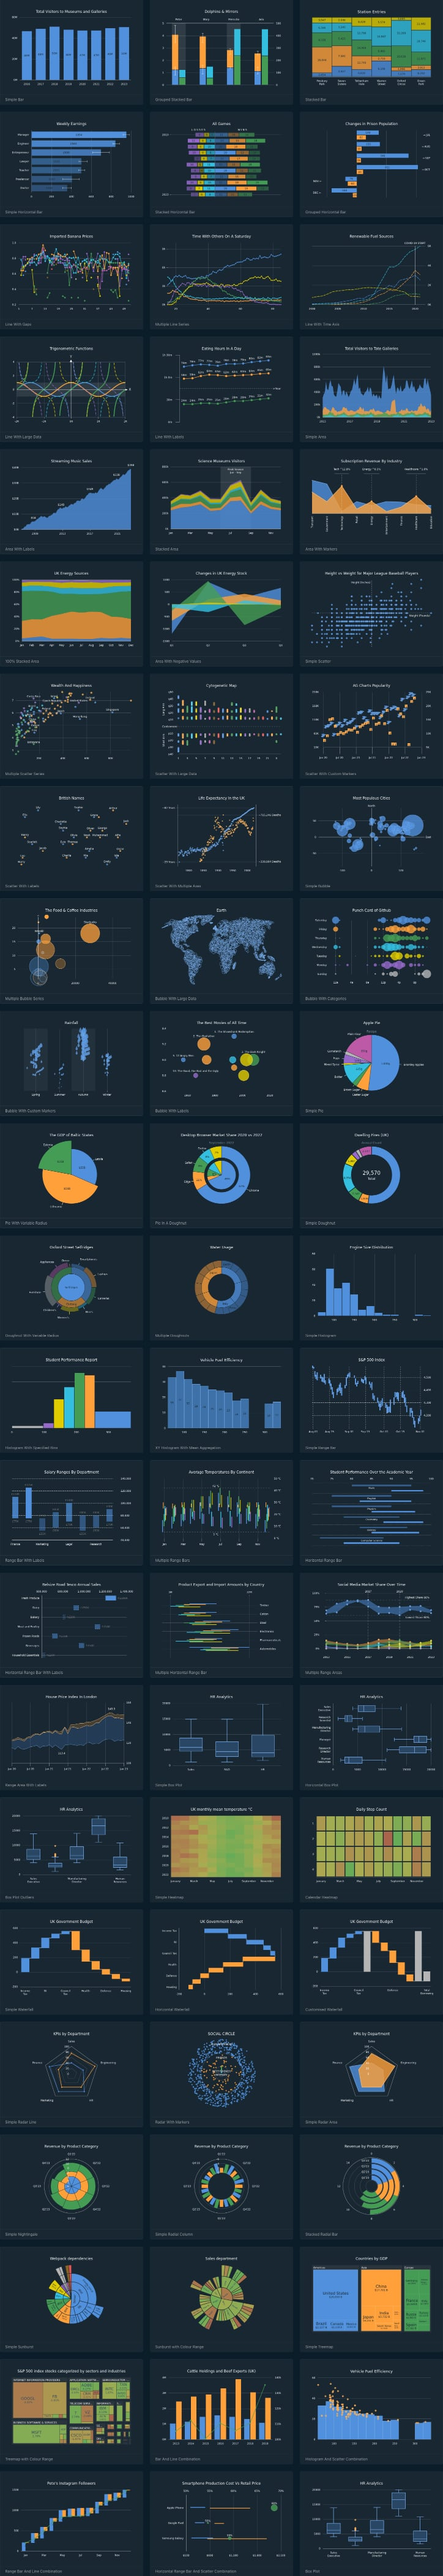
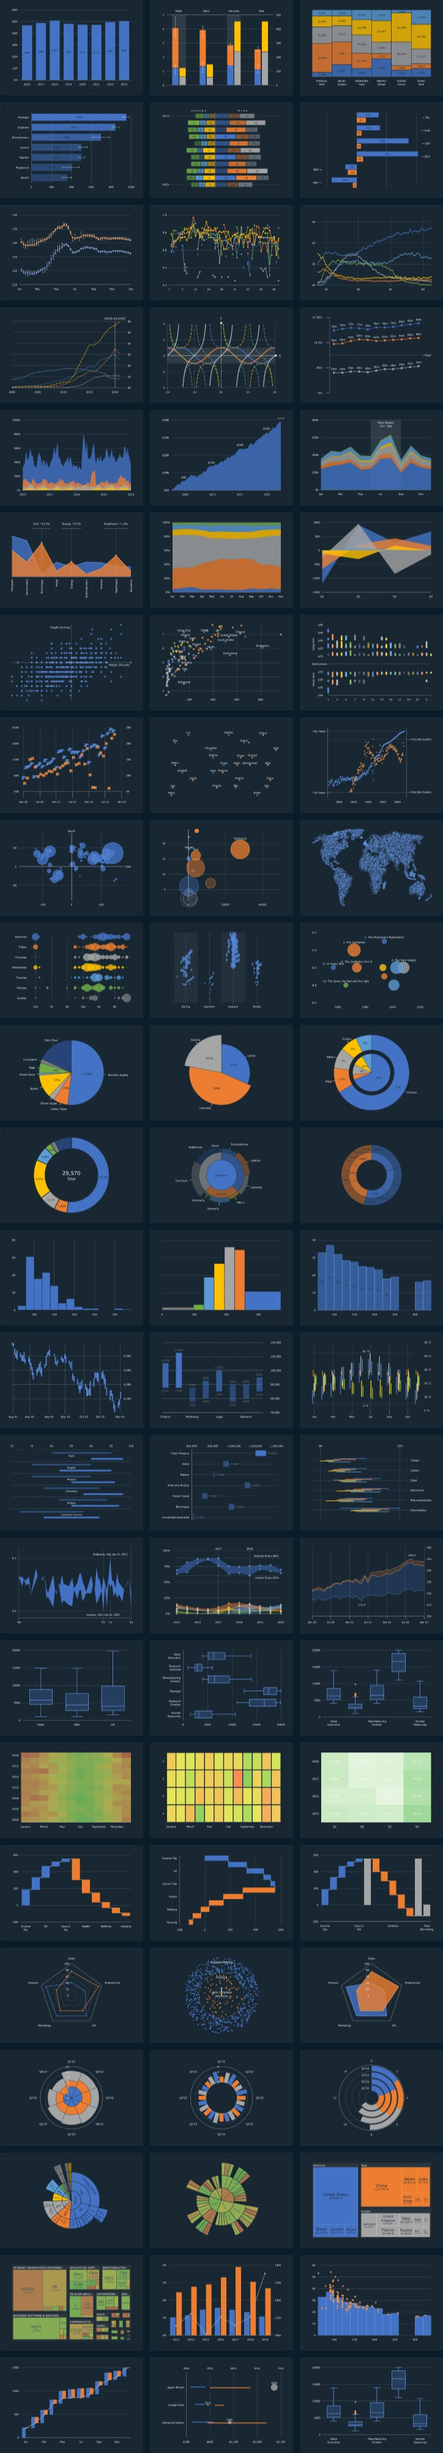
AG-3390 - Update homepage scrolling gallery images & add image gen code

Changed region(s): [[0.6989, 0.0, 0.9724, 0.9998], [0.0304, 0.0, 0.3039, 0.9998], [0.3646, 0.0, 0.6381, 0.9998]]

diff --git a/packages/ag-charts-website/src/pages/homepage.module.scss b/packages/ag-charts-website/src/pages/homepage.module.scss
@@ -118,7 +118,6 @@
     background-repeat: repeat-y;
     background-size: 100% auto;
     animation-duration: 30s;
-    animation-direction: reverse;
     animation-name: scroll-hero;
     animation-iteration-count: infinite;
     animation-timing-function: linear;
@@ -129,12 +128,16 @@
         bottom: 0;
         right: 0;
         left: 0;
-        height: $size-4;
-        background-image: linear-gradient(transparent, var(--default-background-color));
+        height: $size-6;
+        background-image: linear-gradient(transparent, var(--dark-blue-600));
     }
 
     #{$darkmode-selector} & {
         background-image: url('../../images/gallery-dark@0.5x.jpg');
+
+        &::after {
+            background-image: linear-gradient(transparent, var(--default-background-color));
+        }
     }
 }
 

diff --git a/packages/ag-charts-website/src/features/gallery/utils/transformPlainEntryFile.ts b/packages/ag-charts-website/src/features/gallery/utils/transformPlainEntryFile.ts
@@ -18,6 +18,7 @@ function transformer(sourceFile: string, dataFile?: string, themeName?: ThemeNam
         .find(j.ObjectExpression);
 
     // Find and remove properties in the 'options' object
+    // Add 'title' to remove titles for images for homepage scrolling hero
     const propertiesToRemove = ['subtitle', 'footnote', 'legend', 'gradientLegend'];
 
     optionsExpression.forEach((path) => {
